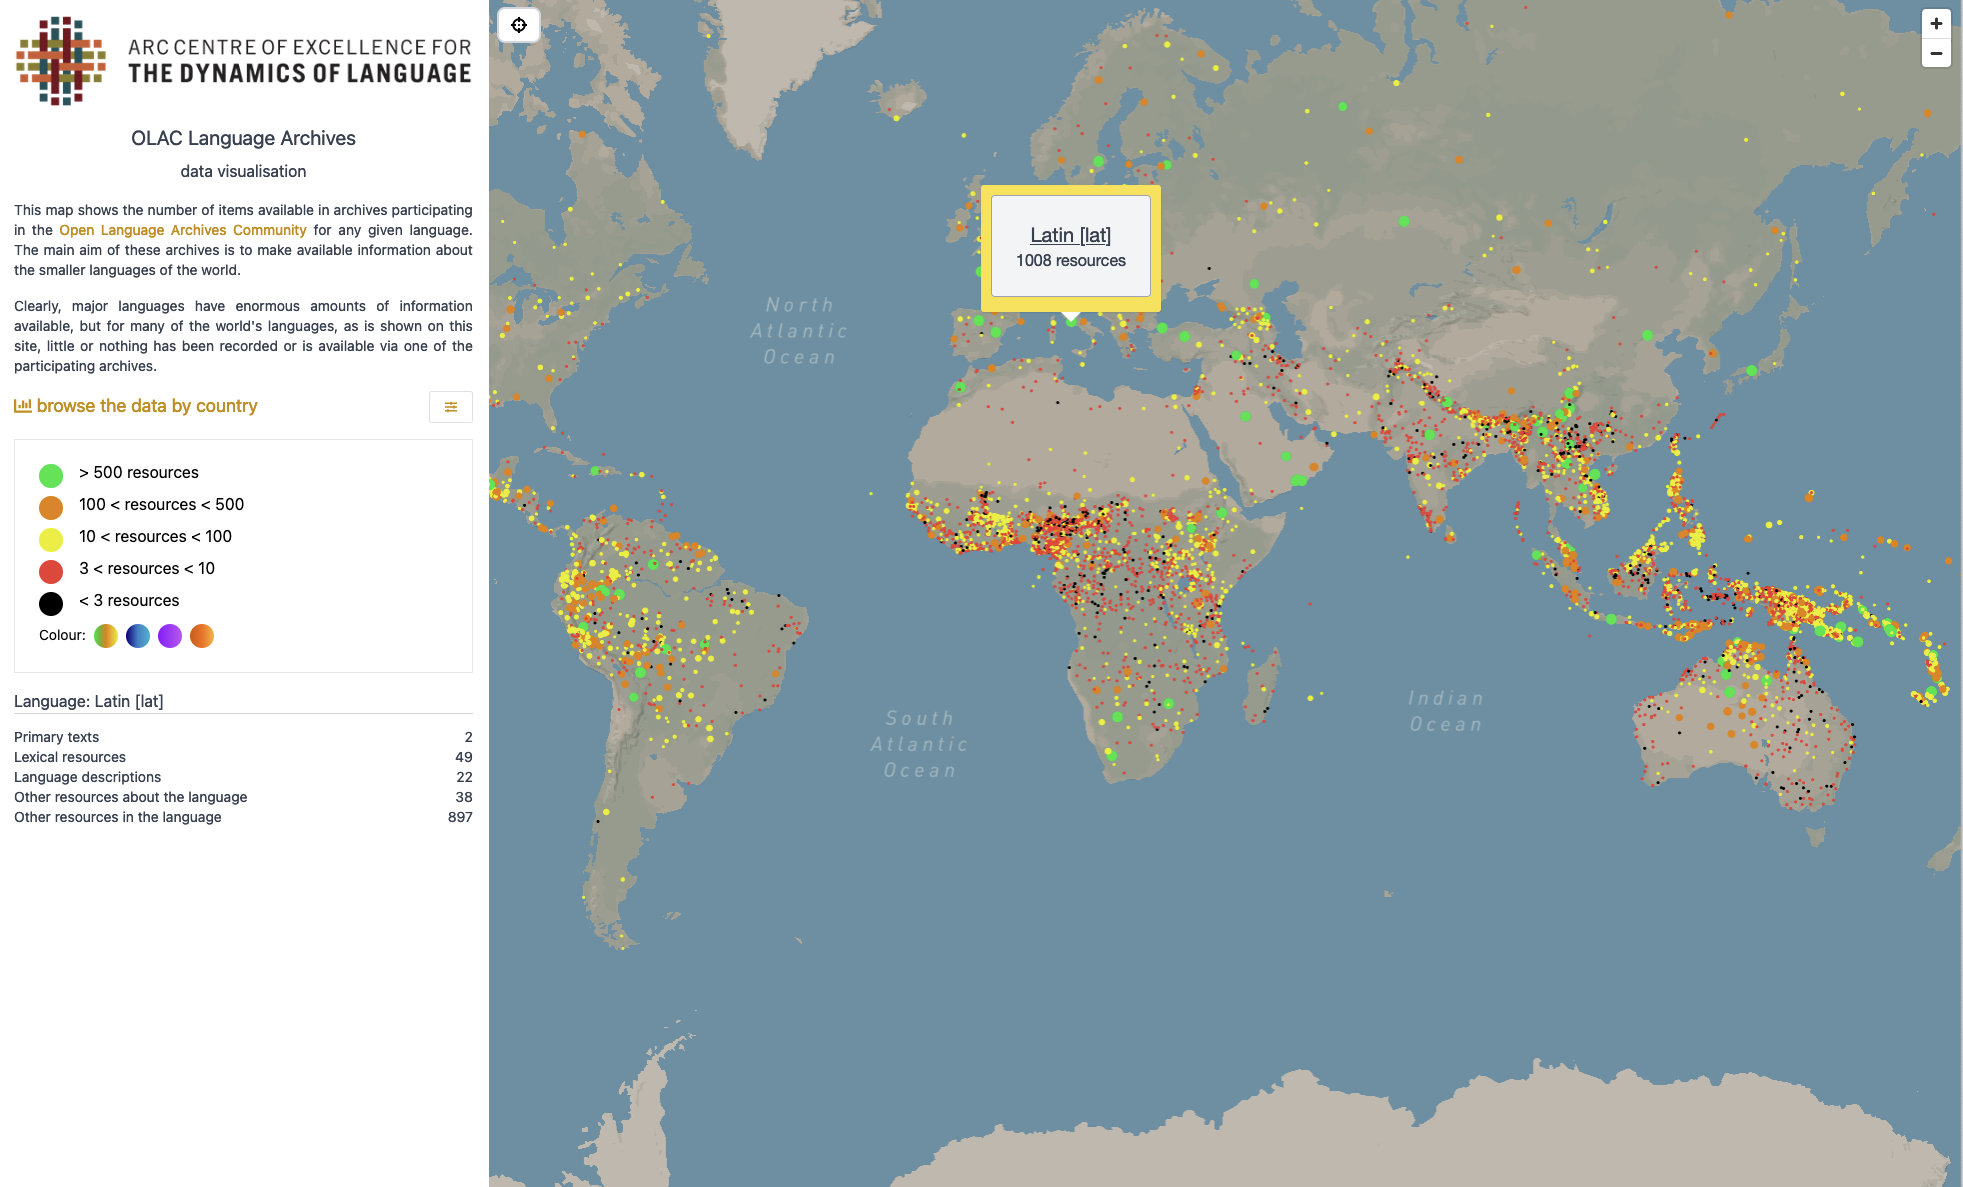
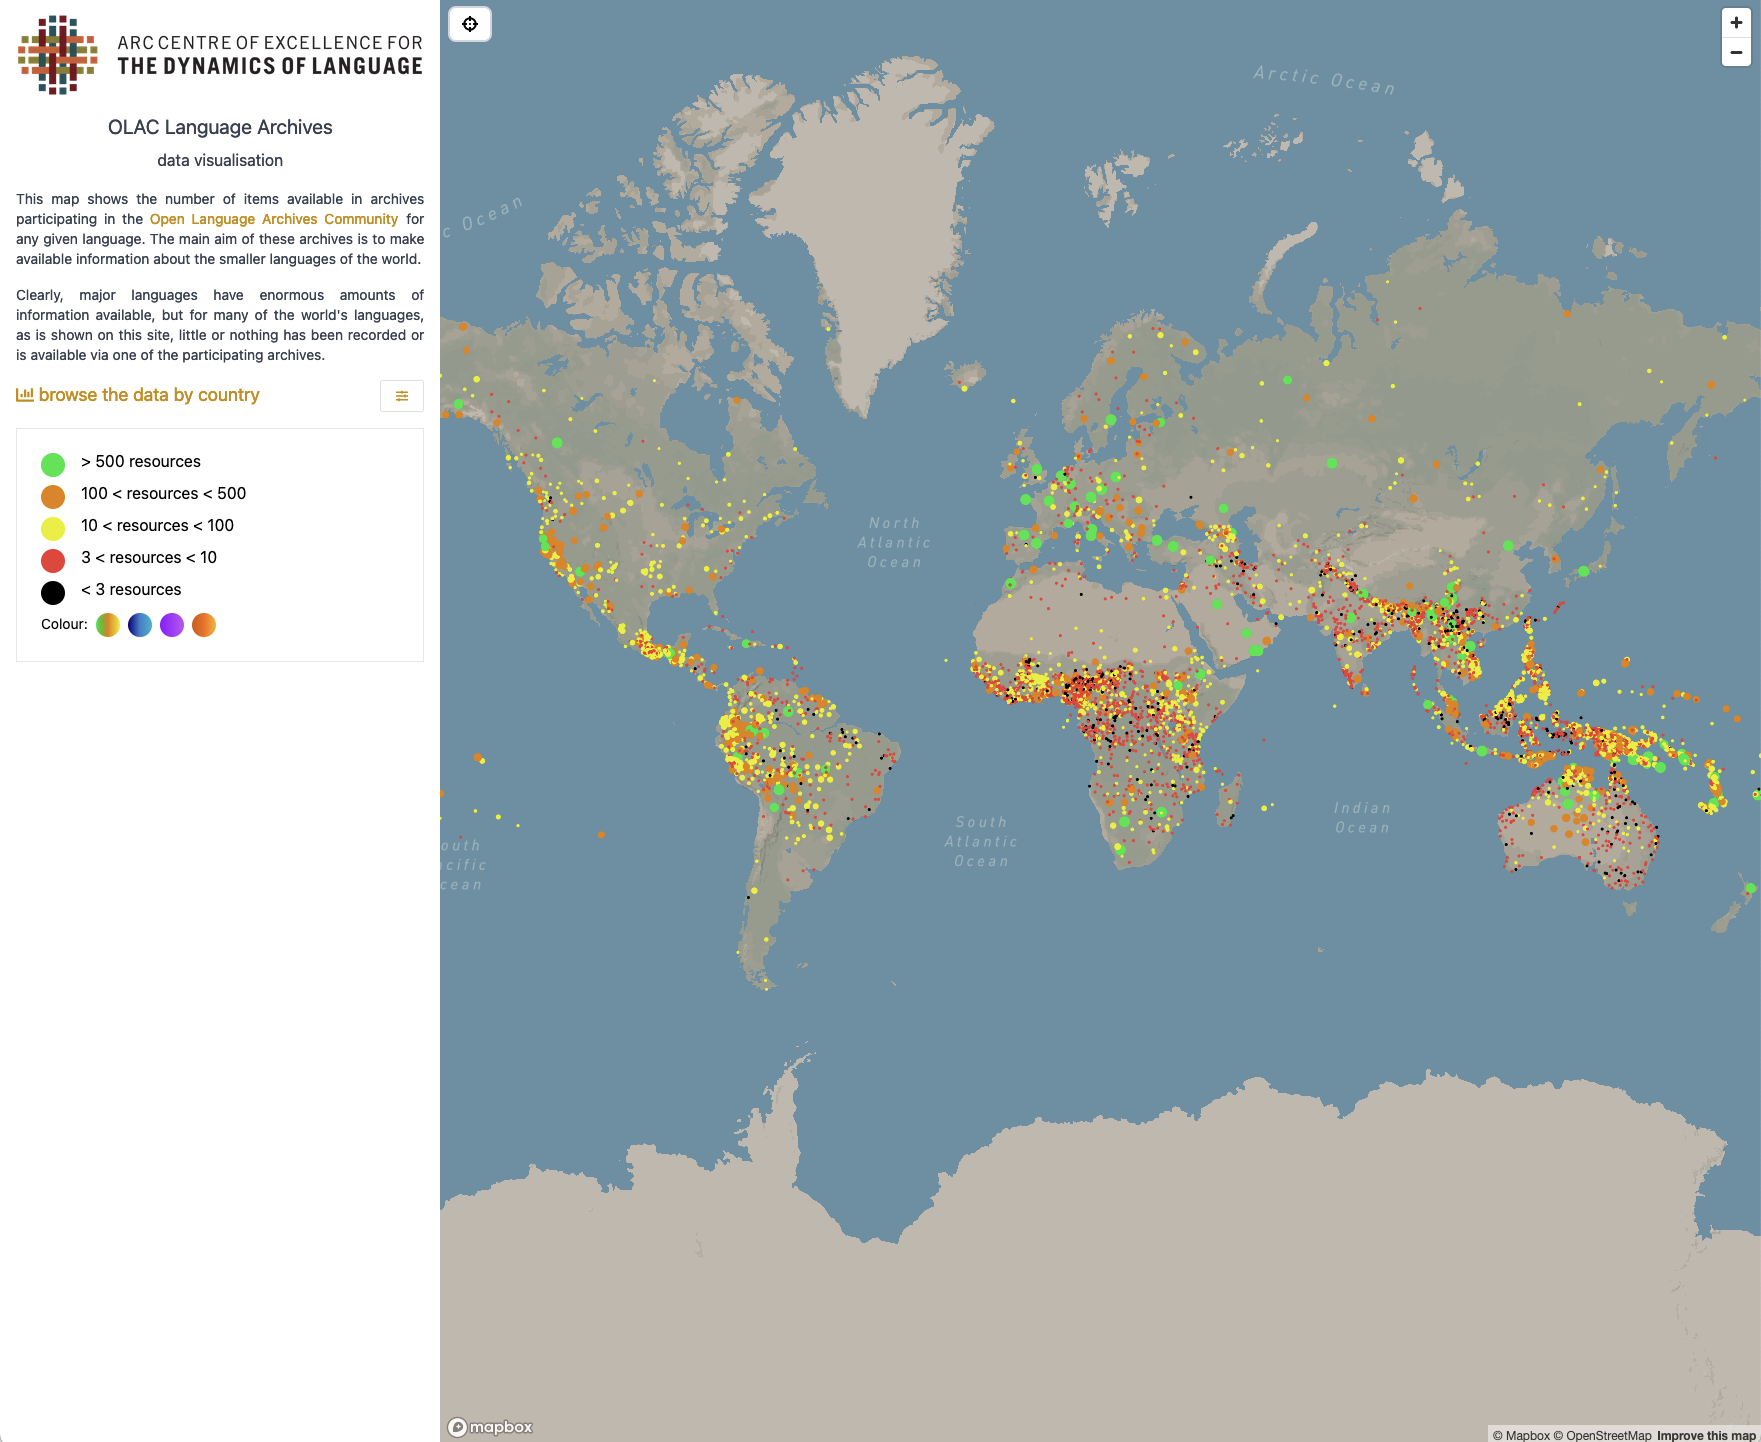
more content ; updates

diff --git a/pages/portfolio/olacvis.vue b/pages/portfolio/olacvis.vue
@@ -1,1 +1,165 @@
-<template></template>
+<template>
+    <stack>
+        <card>
+            <template #text>
+                <div class="text-center text-3xl my-10">
+                    Open Language Archives Community - Visualisation
+                </div>
+                <linker
+                    class="text-center"
+                    to="https://language-archives.services/olacvis/"
+                ></linker>
+            </template>
+        </card>
+
+        <div class="grid grid-cols-1 md:grid-cols-2 gap-2">
+            <card>
+                <template #text>
+                    <div>
+                        The
+                        <linker to="http://www.language-archives.org/">
+                            Open Language Archives Community
+                        </linker>
+                        is an international partnership of institutions and individuals who are
+                        creating a worldwide virtual library of language resources.
+                    </div>
+                </template>
+            </card>
+            <card>
+                <template #text>
+                    <div>
+                        Sometimes you get a project that's just perfect. One where the task is
+                        challenging but you have full freedom to design a creative solution. This is
+                        one of those.
+                    </div>
+                    <div class="my-4">
+                        The brief: Produce a visualisation of the data at the OLAC website.
+                    </div>
+                </template>
+            </card>
+        </div>
+
+        <card>
+            <template #text>
+                <p class="text-2xl">Technology:</p>
+                <ul class="list-disc">
+                    <li>
+                        The site is a combination of a backend data harvester written in JS and
+                        VueJS SPA.
+                    </li>
+                    <li>
+                        The harvester is run periodically (cron) and it starts by harvesting the
+                        area data files and then walking the links from there.
+                    </li>
+                    <li>
+                        All of the data on that site is in HTML pages so the harvester uses XPATH to
+                        select the content it wants.
+                    </li>
+                    <li>
+                        When it's done harvesting it creates a set of JSON index files that are then
+                        made available to the webserver. Check it out in the next card.
+                    </li>
+                    <li>
+                        Then, mounting the repository into a known location of the webserver, the
+                        VueJS just loads what it needs as it needs it. And there's no API needed.
+                    </li>
+                    <li>
+                        <linker to="https://github.com/CoEDL/olac-visualisation-v2"></linker>
+                    </li>
+                </ul>
+            </template>
+        </card>
+        <card>
+            <template #text>
+                <div>
+                    This is what the repository looks like. It's just data files that can be served
+                    via HTTP.
+                </div>
+            </template>
+            <template #image>
+                <img src="/olacvis/olacvis8.png" class="object-contain" />
+            </template>
+        </card>
+
+        <card>
+            <template #text>
+                <div>
+                    The app landing page showing the 7454 documented languages. From the here the
+                    use can browse around to look for a language or use the controls to jump to a
+                    location or directly to a language.
+                </div>
+            </template>
+            <template #image>
+                <img src="/olacvis/olacvis1.png" class="object-contain" />
+            </template>
+        </card>
+
+        <card>
+            <template #text>
+                <div>Shades of Orange...</div>
+            </template>
+            <template #image>
+                <img src="/olacvis/olacvis2.png" class="object-contain" />
+            </template>
+        </card>
+
+        <card>
+            <template #text>
+                <div>Shades of Blue...</div>
+            </template>
+            <template #image>
+                <img src="/olacvis/olacvis3.png" class="object-contain" />
+            </template>
+        </card>
+
+        <div class="grid grid-cols-1 md:grid-cols-2 gap-2">
+            <card>
+                <template #text>
+                    <div>Zooming in to a given country.</div>
+                </template>
+                <template #image>
+                    <img src="/olacvis/olacvis4.png" class="object-contain" />
+                </template>
+            </card>
+
+            <card>
+                <template #text>
+                    <div>Zoomed into Australia.</div>
+                </template>
+                <template #image>
+                    <img src="/olacvis/olacvis5.png" class="object-contain" />
+                </template>
+            </card>
+        </div>
+
+        <card>
+            <template #text>
+                <div>The languages of Australia. Eastern Arrente has 362 resources.</div>
+            </template>
+            <template #image>
+                <img src="/olacvis/olacvis6.png" class="object-contain" />
+            </template>
+        </card>
+
+        <card>
+            <template #text>
+                <div>
+                    Navigating to the Eastern Arrente page we can see all the known resources for
+                    the language, categorised by their type (Primary Texts, Lexical resources, ...).
+                    Selecting a resource dynamically fetches the HTML page from the website, parses
+                    it and extracts the link to the original resource that the OLAC page describes
+                    so the user can easily get back to the OLAC page or the page it's about.
+                </div>
+            </template>
+            <template #image>
+                <img src="/olacvis/olacvis7.png" class="object-contain" />
+            </template>
+        </card>
+    </stack>
+</template>
+
+<script setup>
+import linker from "~/src/components/linker.vue";
+import stack from "~/src/components/stack.vue";
+import card from "~/src/components/Card.vue";
+</script>

diff --git a/pages/index.vue b/pages/index.vue
@@ -14,8 +14,12 @@
                     Throughout my career I have been relied upon to architect and create scalable,
                     manageable and performant systems. Meticulous, analytical and highly adaptable,
                     I am able to quickly develop expertise in new fields and technologies. I take a
-                    holistic approach to my work to ensure that a solution is developed using the
-                    best available technology for that problem.
+                    holistic approach to my work in order to ensure that a solution is developed
+                    using the best available technology for that problem.
+                </p>
+                <p>
+                    Following is a selection of projects that I've worked on over the last few
+                    years.
                 </p>
                 <!-- <p>
                     Throughout my career I have been relied upon to architect and create manageable
@@ -41,7 +45,8 @@
                     member.
                 </p> -->
             </div>
-            <div class="text-3xl my-10 text-center">Portfolio</div>
+            <!-- <div class="text-3xl my-10 text-center">Portfolio</div> -->
+            <div class="border border-slate-400 my-8"></div>
             <div class="flex flex-col space-y-1">
                 <Feature
                     to="/portfolio/describo"
@@ -78,32 +83,30 @@ to support language revitalisation."
                     image="/modpdsc/modpdsc1.png"
                 >
                 </Feature>
-                <div class="flex flex-col space-y-1 md:flex-row md:space-y-0">
-                    <Feature
-                        to="/portfolio/olacvis"
-                        title="OLAC Visualisation"
-                        description="A visualisation of the language data at the Open Language Archives."
-                        image="/olacvis/olacvis1.png"
-                    >
-                    </Feature>
-
-                    <Feature
-                        to="/portfolio/pi"
-                        title="Raspberry Pi and Data Loader"
-                        description="An application to load catalog data onto Raspberry Pi's for repatriation."
-                        image="/pi/pi1.png"
-                    >
-                    </Feature>
-                </div>
+                <Feature
+                    to="/portfolio/olacvis"
+                    title="OLAC Visualisation"
+                    description="A visualisation of the language data at the Open Language Archives."
+                    image="/olacvis/olacvis1.png"
+                >
+                </Feature>
 
                 <Feature
-                    to="/portfolio/code"
-                    title="Code Repositories"
-                    description="Uncategorised open source codes"
-                    image="/code/code1.png"
+                    to="/portfolio/pi"
+                    title="Raspberry Pi and Data Loader"
+                    description="An application to load catalog data onto Raspberry Pi's for repatriation."
+                    image="/pi/pi1.png"
                 >
                 </Feature>
             </div>
+
+            <Feature
+                to="/portfolio/code"
+                title="Code Repositories"
+                description="Uncategorised open source codes"
+                image="/code/code1.png"
+            >
+            </Feature>
         </span>
     </div>
 </template>

diff --git a/pages/portfolio/50words.vue b/pages/portfolio/50words.vue
@@ -19,6 +19,7 @@
 
         <card>
             <template #text>
+                <p class="text-2xl">Technology:</p>
                 <div class="flex flex-col space-y-2">
                     <ul class="list-disc">
                         <li>
